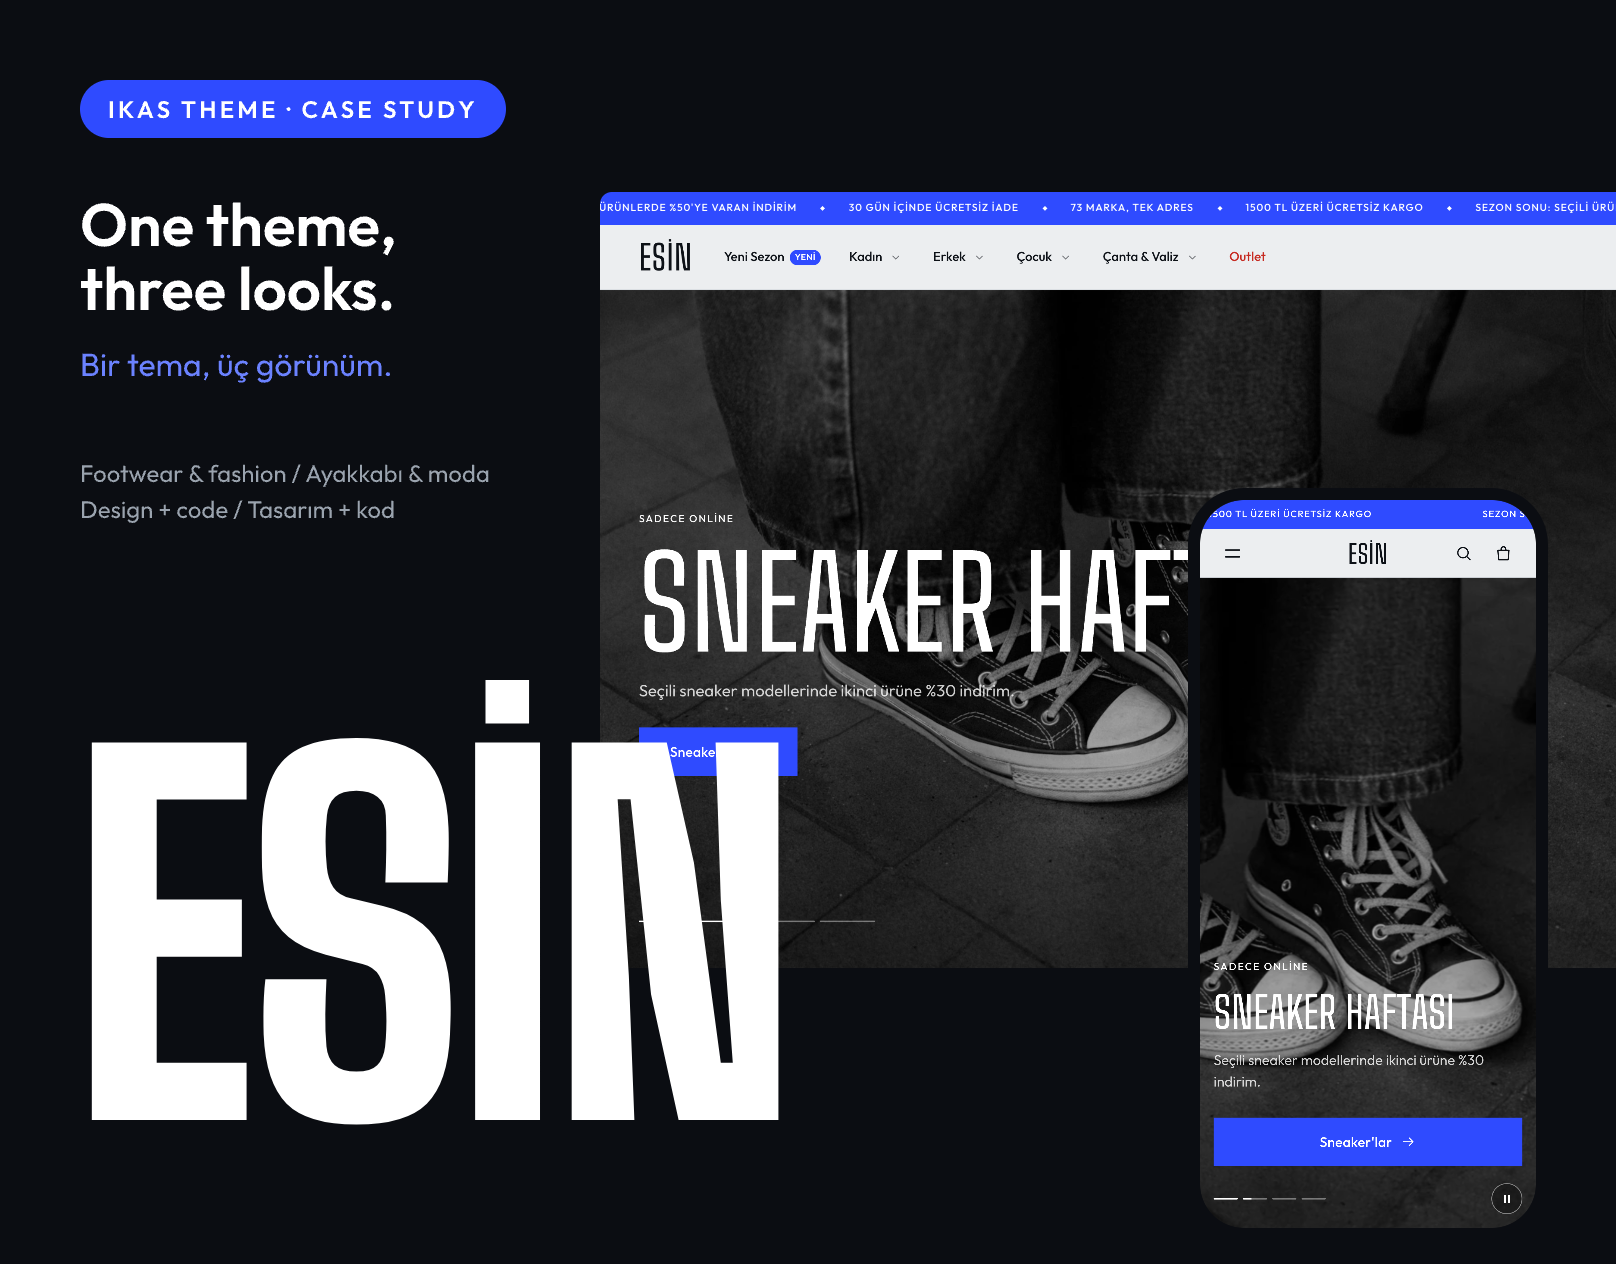
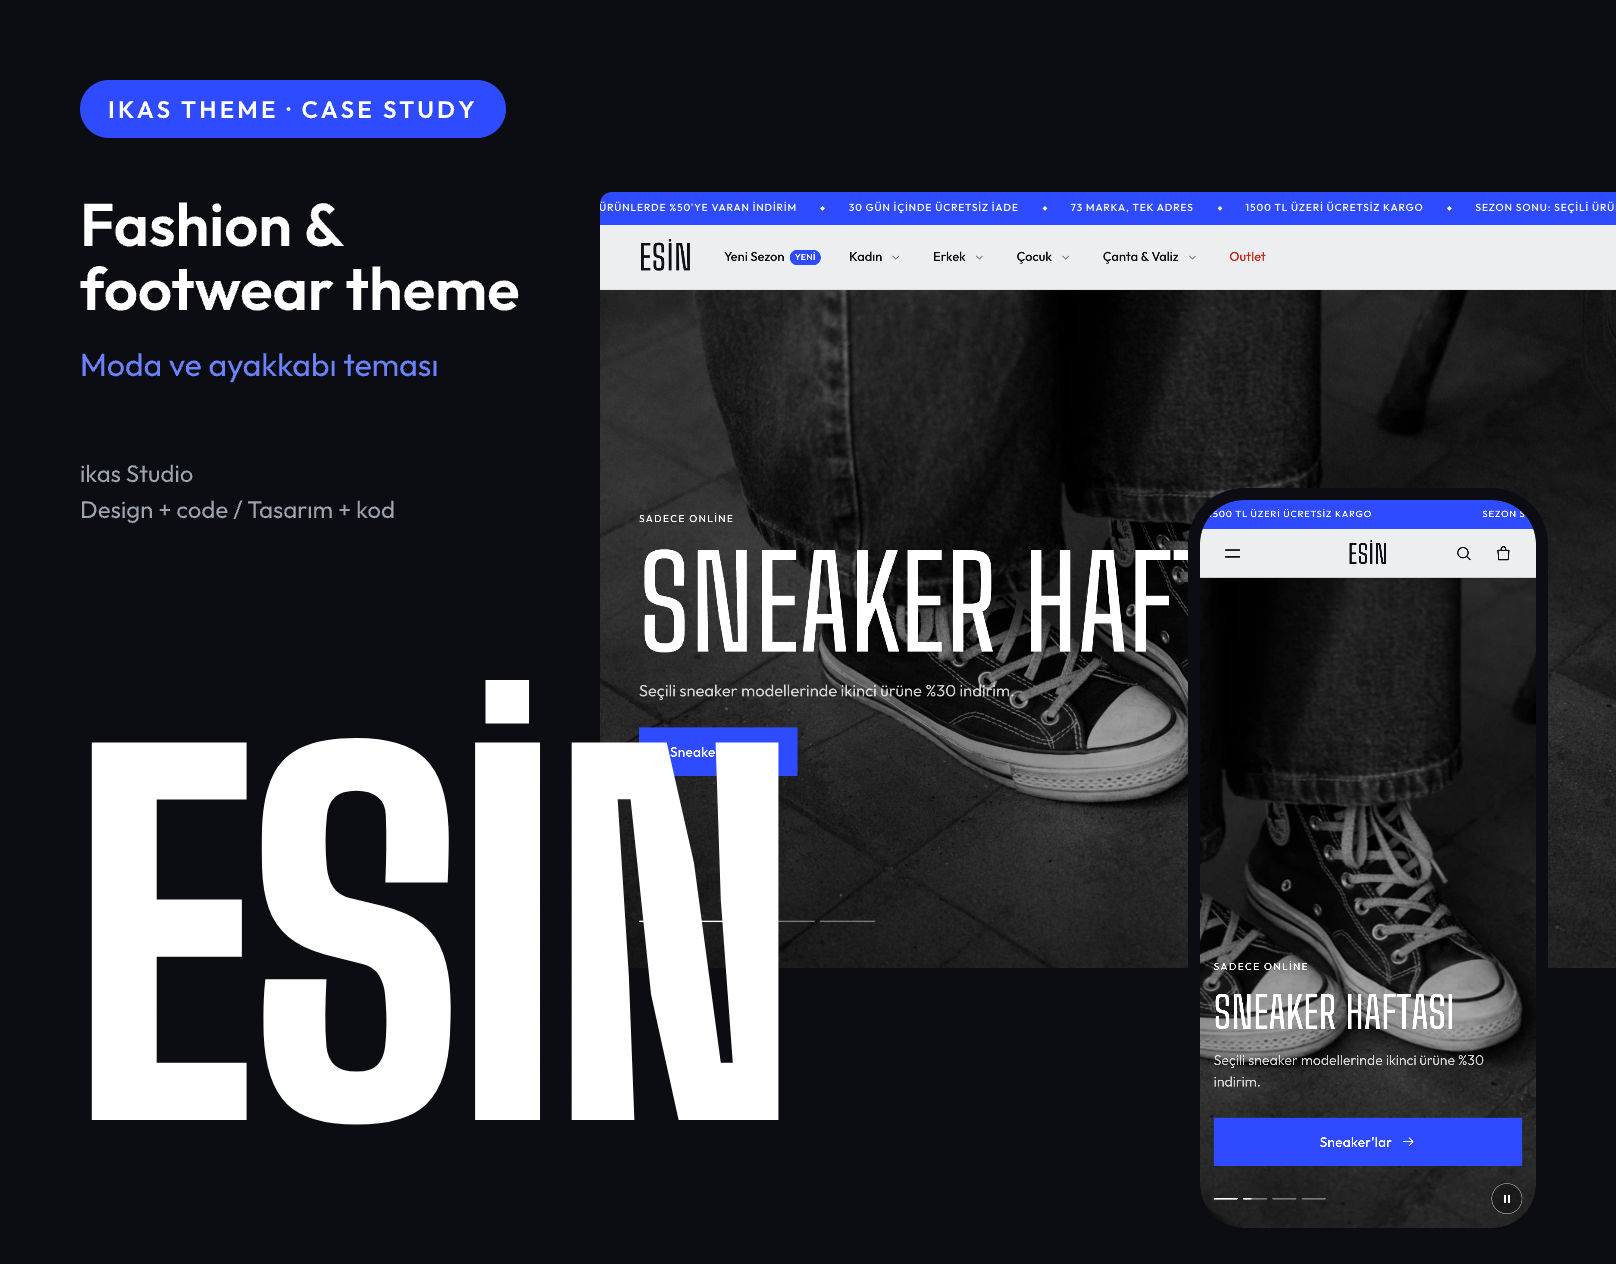
Clarify copy: 3 ready styles; refresh cover

Changed region(s): [[0.0309, 0.1543, 0.3403, 0.2468], [0.0619, 0.3703, 0.3094, 0.4011], [0.0309, 0.2777, 0.2785, 0.3085]]

diff --git a/README.md b/README.md
@@ -83,12 +83,12 @@ Her ürün listeleyen bölümde: görsel oranı, hover efekti, rozet stili, sepe
 
 ---
 
-## 6. Bir tema, üç görünüm · One theme, three looks
+## 6. 3 hazır stil · 3 ready styles
 
-Herhangi bir bölüm → Yazı ve buton stili → Tema havası. Font, harf, köşe ve buton birlikte değişir.
-*One setting changes fonts, letter case, corners and buttons together.*
+Herhangi bir bölüm → Yazı ve buton stili → Tema havası. Seçilen stil başlık fontunu, harf biçimini, köşe yuvarlaklığını ve buton şeklini birlikte değiştirir; tüm mağaza ya da tek bölüm için.
+*Each style changes heading font, letter case, corners and button shape together — for the whole store or one section.*
 
-![Üç görünüm](images/uc-gorunum.png)
+![3 hazır stil](images/uc-gorunum.png)
 
 ---
 
